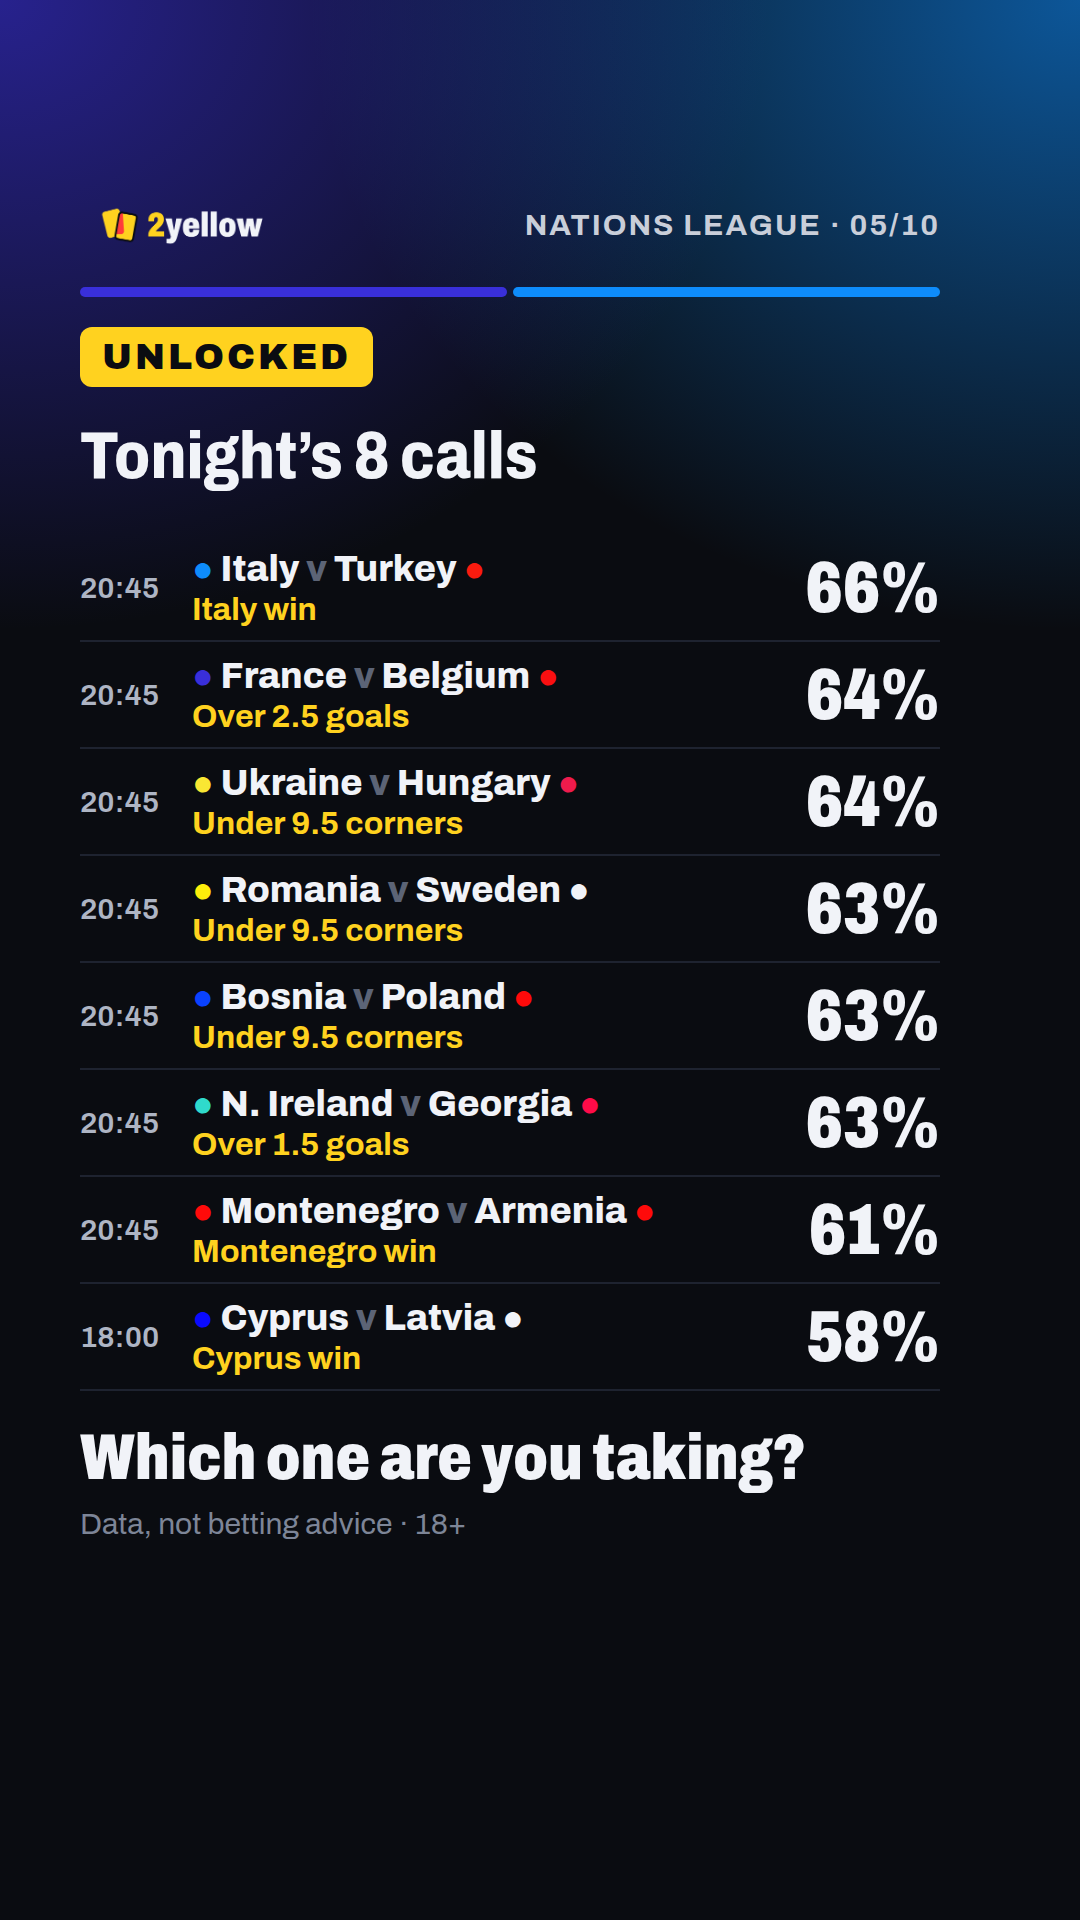
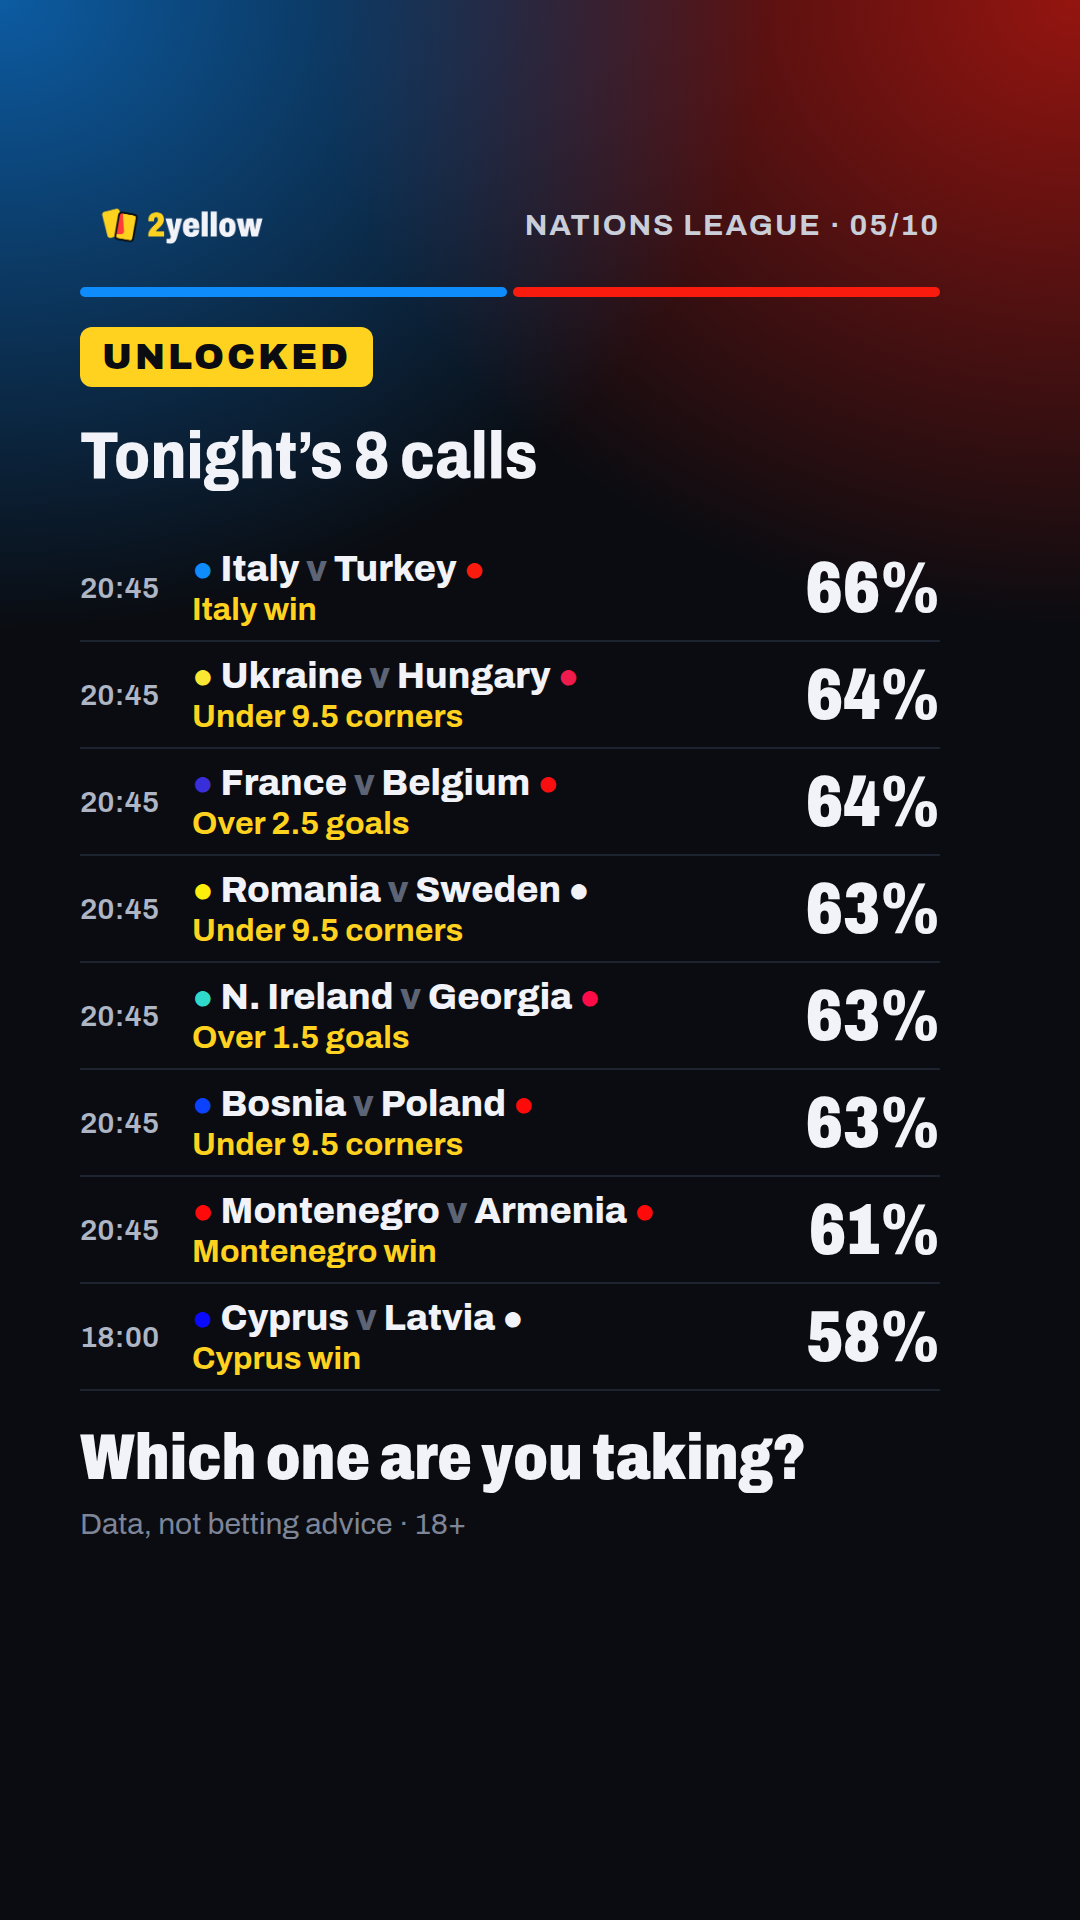
redes: la lista de pronósticos del día sale sola del repo (como el chat de la Nations League)
Claude-Session: https://claude.ai/code/session_018MeJsYiHkoQJUMr9duRCps

Changed region(s): [[0.0, 0.0, 1.0, 0.2812], [0.1833, 0.5, 0.55, 0.625], [0.1833, 0.3438, 0.55, 0.4375]]

diff --git a/redes/plantillas/datos_selecciones.py b/redes/plantillas/datos_selecciones.py
@@ -5,6 +5,8 @@ Cruza data/selecciones/partidos.csv (resultados), registro_pronosticos.csv (nues
 y el Elo de modelos/selecciones/experimento_variables.py.
     python3 redes/plantillas/datos_selecciones.py post Germany 2026-10-04
     python3 redes/plantillas/datos_selecciones.py pre France 2026-10-05
+    python3 redes/plantillas/datos_selecciones.py hoy 2026-10-05        # todos los pronósticos del día
+    python3 redes/plantillas/datos_selecciones.py perfil 2026-10-05     # los dos que tapa la 6ª
 Deja los JSON y los PNG en redes/plantillas/salida/<fecha>_<local>_<visitante>/.
 Ejecutar desde la raíz del repo.
 """
@@ -20,7 +22,7 @@ sys.path.insert(0, "modelos/selecciones")
 import generar as G  # noqa: E402
 
 C = "data/selecciones"
-CORTO = {"Kosovo National Team": "Kosovo", "Republic of Ireland": "Ireland", "Bosnia and Herzegovina": "Bosnia",
+CORTO = {"Kosovo National Team": "Kosovo", "Republic of Ireland": "Ireland", "Bosnia and Herzegovina": "Bosnia", "Bosnia & Herzegovina": "Bosnia",
          "Czech Republic": "Czechia", "North Macedonia": "N. Macedonia", "Northern Ireland": "N. Ireland"}
 COMP = "Nations League"
 
@@ -247,11 +249,64 @@ def perfil(fecha):
     return {"local": "perfil", "visitante": fecha}, {"perfil_our_calls": d}
 
 
+def leer(nombre):
+    """Lee data/selecciones/<nombre> de origin/main (lo actualiza el workflow de selecciones); si no, el local."""
+    import io, subprocess
+    try:
+        txt = subprocess.run(["git", "show", f"origin/main:{C}/{nombre}"], capture_output=True, text=True, check=True).stdout
+        return pd.read_csv(io.StringIO(txt))
+    except Exception:
+        return pd.read_csv(f"{C}/{nombre}")
+
+
+# (columna del registro, mercado en cuotas_hoy, lado sí, lado no, texto sí, texto no). Solo mercados
+# con historial medido (modelos/selecciones/CLAUDE.md, "Listas para el usuario").
+MERCADOS_LISTA = [("1", "Full Time Result", "Home", None, "{h} win", None),
+                  ("X", "Full Time Result", "Draw", None, "Draw", None),
+                  ("2", "Full Time Result", "Away", None, "{a} win", None),
+                  ("btts", "Both Teams To Score", "Yes", "No", "Both teams score", "Not both teams score")]
+MERCADOS_LISTA += [(f"mas_{x}", f"Total Goals {x}", "Over", "Under", f"Over {x} goals", f"Under {x} goals")
+                   for x in ("1.5", "2.5", "3.5")]
+MERCADOS_LISTA += [(f"corners_mas_{x}", f"Total Corners {x}", "Over", "Under", f"Over {x} corners", f"Under {x} corners")
+                   for x in ("8.5", "9.5")]
+
+
+def lista_hoy(fecha, cuota_min=1.44, mejor_min=1.50):
+    """Lo más probable de cada partido (mezcla modelo/mercado de pesos_mezcla.json) con cuota mediana
+    >= cuota_min y mejor cuota >= mejor_min. Reproduce las listas del chat de la Nations League."""
+    w = {k: v["peso"] for k, v in json.load(open(f"{C}/pesos_mezcla.json")).items()}
+    r = leer("registro_pronosticos.csv")
+    r = r[r.fecha_partido.str.startswith(fecha)].sort_values("generado").drop_duplicates("match_id", keep="last")
+    cu = leer("cuotas_hoy.csv")
+    picks_ = []
+    for _, x in r.iterrows():
+        q = cu[cu.match_id == x.match_id]
+        cand = []
+        for k, mk, si, no, tsi, tno in MERCADOS_LISTA:
+            mo, ma = x.get(f"mod_{k}"), x.get(f"mkt_{k}")
+            if pd.isna(mo):
+                continue
+            p = mo if pd.isna(ma) else w.get(k, 0) * mo + (1 - w.get(k, 0)) * ma
+            for lado, txt, pp in ((si, tsi, p), (no, tno, 1 - p)):
+                o = q[(q.mercado == mk) & (q.lado == lado)].cuota if lado else pd.Series(dtype=float)
+                if len(o) and o.median() >= cuota_min and o.max() >= mejor_min:
+                    cand.append((pp, txt.format(h=CORTO.get(x.local, x.local), a=CORTO.get(x.visitante, x.visitante))))
+        if cand:
+            pp, txt = max(cand)
+            hora = pd.Timestamp(x.fecha_partido).tz_convert("Europe/Madrid")
+            picks_.append({"time": f"{hora:%H:%M}", "home": eq(x.local.replace(" & ", " and ")),
+                           "away": eq(x.visitante.replace(" & ", " and ")), "pick": txt, "pct": round(pp * 100)})
+    picks_.sort(key=lambda m: -m["pct"])
+    d = {"template": "picks_list", "competition": f"{COMP} · {fecha[8:]}/{fecha[5:7]}", "home": picks_[0]["home"],
+         "away": picks_[0]["away"], "kicker": "Unlocked", "title": f"Tonight’s {len(picks_)} calls", "picks": picks_}
+    return {"local": "perfil", "visitante": fecha}, {"perfil_picks_hoy": d}
+
+
 if __name__ == "__main__":
     modo = sys.argv[1]
-    if modo == "perfil":
+    if modo in ("perfil", "hoy"):
         fecha = sys.argv[2]
-        m, datos = perfil(fecha)
+        m, datos = perfil(fecha) if modo == "perfil" else lista_hoy(fecha, *map(float, sys.argv[3:5]))
         m = pd.Series(m)
     else:
         equipo, fecha = sys.argv[2:4]

diff --git a/BITACORA.md b/BITACORA.md
@@ -25,6 +25,7 @@ Dónde está cada cosa:
 
 | qué | por qué | ficheros |
 |---|---|---|
+| `datos_selecciones.py hoy <fecha>`: saca sola la lista del día como el chat de la Nations League (mezcla modelo/mercado de `pesos_mezcla.json`, solo mercados medidos sin tarjetas, cuota mediana >= 1.44 y mejor >= 1.50; lee registro y cuotas de origin/main). Con los datos del 05/10 reproduce 7 de 8 iguales; Rumanía-Suecia empata a 63 % entre menos de 9.5 córners y menos de 3.5 goles (en la imagen de hoy, la del otro chat). | El usuario no quiere rellenar nada; la lista sale de su otro chat con el mismo repo. | `redes/plantillas/datos_selecciones.py` |
 | Plantilla "picks_list": todos los pronósticos del día en una imagen (hora, partido con colores, elección y %). Primera: las 8 de la Nations League del 05/10 que pasó el usuario (horas pasadas a la española, sin cuotas). Las 6ª de hoy tapan ahora el France-Belgium de esa lista (más de 2.5, 64 %). | Destino del swipe de la 6ª. | `redes/plantillas/` |
 | Imagen del perfil "our_calls" (`datos_selecciones.py perfil <fecha>`): los pronósticos que tapa la 6ª, destapados en una sola imagen (partido grande del día y del siguiente: 1X2, marcador más probable y el mercado de goles más seguro). | Petición del usuario: destino del swipe. | `redes/plantillas/` |
 | Plantilla 6 rehecha con menos texto: el próximo partido grande con nuestro % del favorito DIFUMINADO y un candado, "Our call is on our profile." y barra amarilla @2yellowdata con flechas. En post, sello "7/8 yesterday". | El usuario: le faltaba gancho y sobraba texto. | `redes/plantillas/` |
